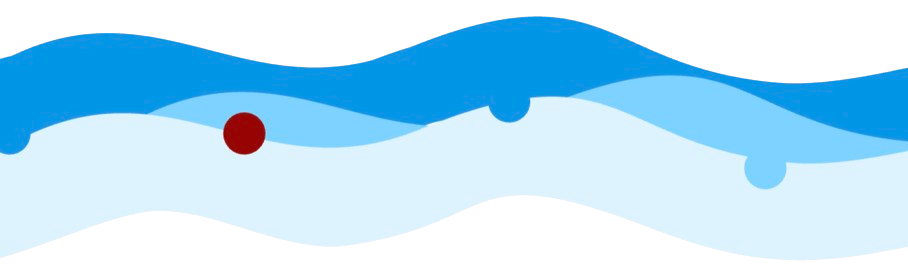
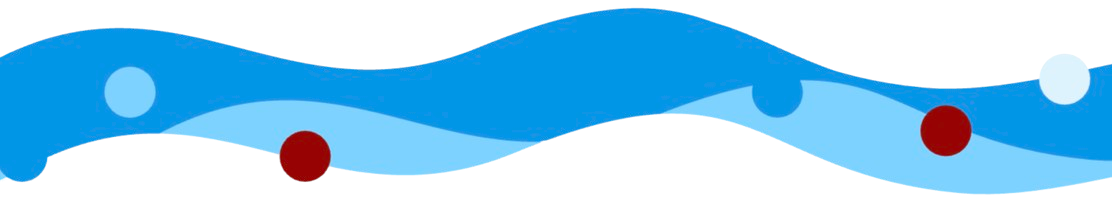
Changed divider for technical pages

diff --git a/src/app/technical/robotics/page.tsx b/src/app/technical/robotics/page.tsx
@@ -1,16 +1,15 @@
-import Image from "next/image";
-import styles from "../technical.module.css";
+import Image from 'next/image';
+import styles from '../technical.module.css';
 
 export default function Mechanical() {
   return (
     <div className={styles.wrapper}>
       <div className={styles.heroImg}>
-
         <div className={styles.boatImg}>
           <Image
             src="/clifford2.png"
             alt="Clifford the boat"
-            fill               // ← key: image fills parent
+            fill // ← key: image fills parent
             priority
             className={styles.boatImage}
           />
@@ -19,11 +18,10 @@ export default function Mechanical() {
         <div className={styles.titleBlock}>
           <h2 className={styles.technicalTitle}>Robotics</h2>
         </div>
-         <div className={styles.dividerWrapper}>
-          <img src="/divider5.png" alt="divider" className={styles.divider} />
-        </div>
       </div>
-
+      <div className={styles.dividerWrapper}>
+        <img src="/divider5.png" alt="divider" className={styles.divider} />
+      </div>
       <div className={styles.techSection}>
         <p className={`${styles.descr} mt-0`}>
           The Robotics subteam gives our boat all of its advanced capabilities,
@@ -72,11 +70,11 @@ export default function Mechanical() {
               The launching mechanism itself is a rubber flywheel that is
               rotated at roughly 4500 RPM by a DC motor mounted to the side of
               the structure. As the ball comes down the ramp, it is sped up
-              dramatically by the flywheel and launched toward the target.
-              Since the flywheel is rubber, it conforms to the shape of the
-              ball, giving it more grip as it launches. The chassis of the
-              launcher is made from machined aluminum to make it as rigid as
-              possible, counteracting all of the vibrations coming from the motor.
+              dramatically by the flywheel and launched toward the target. Since
+              the flywheel is rubber, it conforms to the shape of the ball,
+              giving it more grip as it launches. The chassis of the launcher is
+              made from machined aluminum to make it as rigid as possible,
+              counteracting all of the vibrations coming from the motor.
             </p>
           </div>
         </div>
@@ -88,15 +86,14 @@ export default function Mechanical() {
           second prototype, with final completion scheduled for March 2026.
         </p>
 
-
         <div className={styles.horizontalContainer}>
           <div className={styles.leftContainer}>
             <p className={styles.descr}>
               In the fall semester, the team integrated and tested a new
-              holonomic propulsion system, which allows the boat to travel
-              in all directions without turning. This was accomplished by
-              mounting 4 motors to the bottom of the boat at 30 degree angles
-              with respect to the centerline.
+              holonomic propulsion system, which allows the boat to travel in
+              all directions without turning. This was accomplished by mounting
+              4 motors to the bottom of the boat at 30 degree angles with
+              respect to the centerline.
             </p>
           </div>
 
@@ -112,9 +109,9 @@ export default function Mechanical() {
         </div>
 
         <p className={styles.descr}>
-          Controller inputs were then mapped to each motor using a simple
-          system of linear equations, allowing us to control forward, lateral,
-          and rotational movement independently.
+          Controller inputs were then mapped to each motor using a simple system
+          of linear equations, allowing us to control forward, lateral, and
+          rotational movement independently.
         </p>
 
         <div className={styles.techImg}>
@@ -130,8 +127,6 @@ export default function Mechanical() {
         <p className={styles.descr}>
           UNFINISHED... want to change the style of what is displayed on og site
         </p>
-
-
       </div>
     </div>
   );

diff --git a/src/app/technical/mechanical/page.tsx b/src/app/technical/mechanical/page.tsx
@@ -18,11 +18,10 @@ export default function Mechanical() {
         <div className={styles.titleBlock}>
           <h2 className={styles.technicalTitle}>Design & Manufacturing</h2>
         </div>
-        <div className={styles.dividerWrapper}>
-          <img src="/divider5.png" alt="divider" className={styles.divider} />
-        </div>
       </div>
-
+      <div className={styles.dividerWrapper}>
+        <img src="/divider5.png" alt="divider" className={styles.divider} />
+      </div>
       <div className={styles.techSection}>
         <p className={styles.descr}>
           Our unique trimaran design has a hollow center hull that houses all
@@ -45,7 +44,7 @@ export default function Mechanical() {
           strength-to-weight ratios for the frame, and building a framework
           within LS-DYNA for crash simulations.
         </p>
-        
+
         <div className={styles.techImg}>
           <Image
             src="/clifford2.png"
@@ -55,7 +54,7 @@ export default function Mechanical() {
             className={styles.techImage}
           />
         </div>
-<div className={styles.inPageDivider}>
+        <div className={styles.inPageDivider}>
           <img src="/divider7.png" alt="divider" className={styles.divider} />
         </div>
         <h3 className={styles.techHeading}>Hull Manufacturing</h3>

diff --git a/src/app/technical/electrical-systems/page.tsx b/src/app/technical/electrical-systems/page.tsx
@@ -18,11 +18,10 @@ export default function ElectricalSys() {
         <div className={styles.titleBlock}>
           <h2 className={styles.technicalTitle}>Electrical Systems</h2>
         </div>
-        <div className={styles.dividerWrapper}>
-          <img src="/divider5.png" alt="divider" className={styles.divider} />
-        </div>
       </div>
-
+      <div className={styles.dividerWrapper}>
+        <img src="/divider5.png" alt="divider" className={styles.divider} />
+      </div>
       <div className={styles.techSection}>
         <p className={styles.descr}>
           E-Systems coordinate the flow of information and power between all the

diff --git a/src/app/technical/ros-&-simulations/page.tsx b/src/app/technical/ros-&-simulations/page.tsx
@@ -18,11 +18,10 @@ export default function Rossims() {
         <div className={styles.titleBlock}>
           <h2 className={styles.technicalTitle}>Ros & Simulations</h2>
         </div>
-        <div className={styles.dividerWrapper}>
-          <img src="/divider5.png" alt="divider" className={styles.divider} />
-        </div>
       </div>
-
+      <div className={styles.dividerWrapper}>
+        <img src="/divider5.png" alt="divider" className={styles.divider} />
+      </div>
       <div className={styles.techSection}>
         <p className={styles.descr}>
           The ROS (Robot Operating System) and Simulations team uses the ROS

diff --git a/src/app/technical/perception/page.tsx b/src/app/technical/perception/page.tsx
@@ -18,11 +18,10 @@ export default function Perception() {
         <div className={styles.titleBlock}>
           <h2 className={styles.technicalTitle}>Perception</h2>
         </div>
-        <div className={styles.dividerWrapper}>
-          <img src="/divider5.png" alt="divider" className={styles.divider} />
-        </div>
       </div>
-
+      <div className={styles.dividerWrapper}>
+        <img src="/divider5.png" alt="divider" className={styles.divider} />
+      </div>
       <div className={styles.techSection}>
         <p className={styles.descr}>
           The Perception team is responsible for translating the boat’s

diff --git a/src/app/technical/controls-&-microcontroller-designs/page.tsx b/src/app/technical/controls-&-microcontroller-designs/page.tsx
@@ -20,11 +20,10 @@ export default function ArtificialIntelligence() {
             Controls & Microcontroller Design
           </h2>
         </div>
-        <div className={styles.dividerWrapper}>
-          <img src="/divider5.png" alt="divider" className={styles.divider} />
-        </div>
       </div>
-
+      <div className={styles.dividerWrapper}>
+        <img src="/divider5.png" alt="divider" className={styles.divider} />
+      </div>
       <div className={styles.techSection}>
         <p className={styles.descr}>
           The Controls & Microcontrollers team is responsible for all the

diff --git a/src/app/technical/artificial-intelligence/page.tsx b/src/app/technical/artificial-intelligence/page.tsx
@@ -19,11 +19,11 @@ export default function ArtificialIntelligence() {
         <div className={styles.titleBlock}>
           <h2 className={styles.technicalTitle}>Artificial Intelligence</h2>
         </div>
-        <div className={styles.dividerWrapper}>
+        
+      </div>
+<div className={styles.dividerWrapper}>
           <img src="/divider5.png" alt="divider" className={styles.divider} />
         </div>
-      </div>
-
       {/* TECH CONTENT SECTION */}
       <div className={styles.techSection}>
         <h3 className={styles.techHeading}>About the AI Team</h3>

diff --git a/src/app/technical/technical.module.css b/src/app/technical/technical.module.css
@@ -71,8 +71,8 @@
   width: 100vw;
   overflow: hidden;
   line-height: 0;
-  z-index: 2;
-  transform: translateY(35%);
+  z-index: 3;
+  transform: translateY(25%);
 }
 
 .inPageDivider {
@@ -83,9 +83,10 @@
   line-height: 0;
   z-index: 2;
 }
+
 .divider {
   width: 100vw;
-  max-height: 200px;
+  max-height: 300px;
   display: block;
 }
 
@@ -93,6 +94,7 @@
 .techSection {
   padding: 10% 10%;
   font-size: 16px;
+  z-index:1;
 }
 
 .techHeading {
